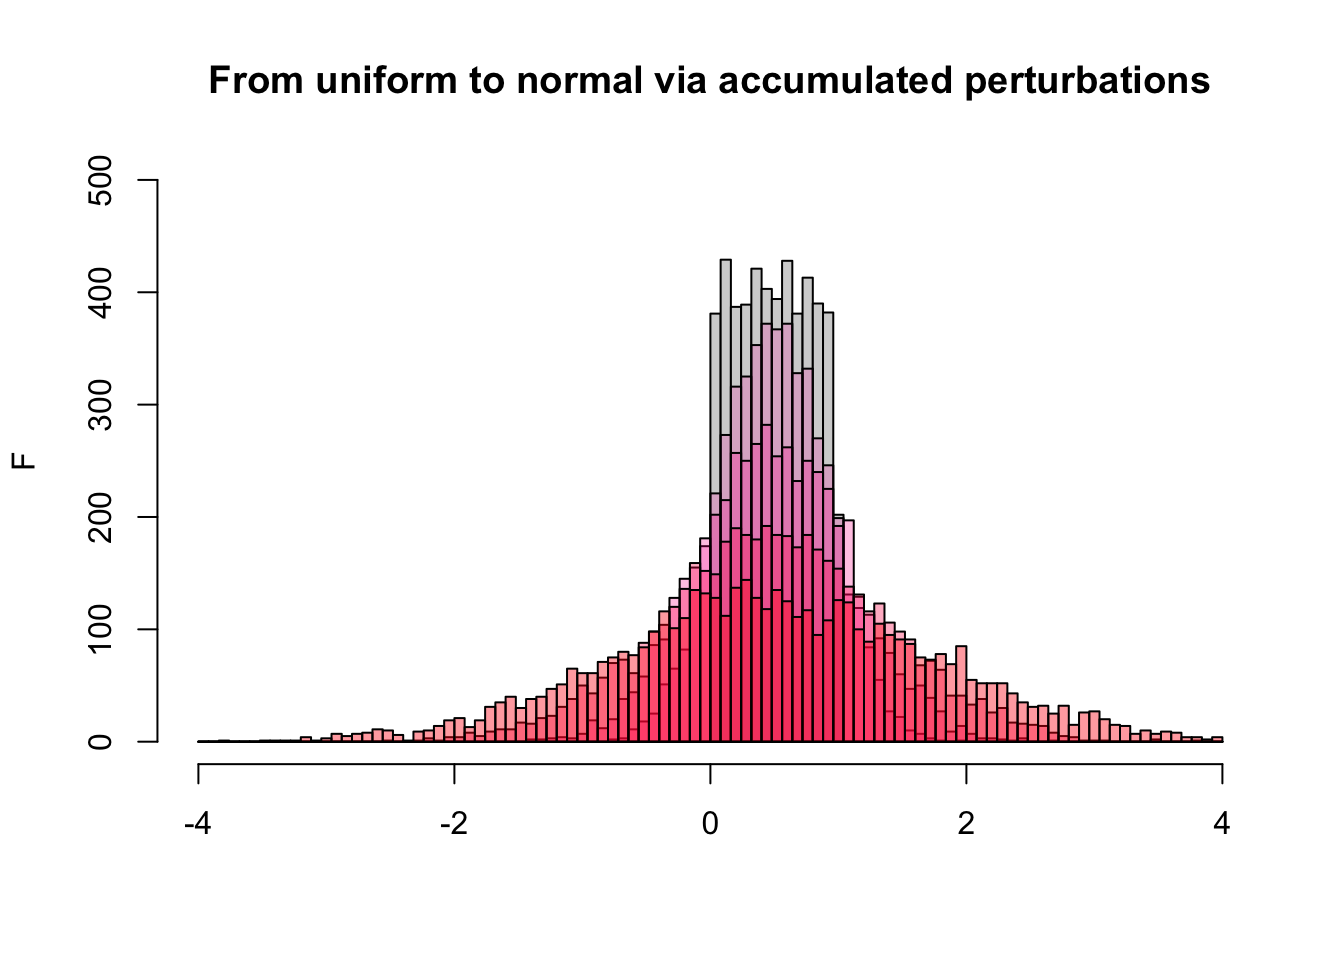
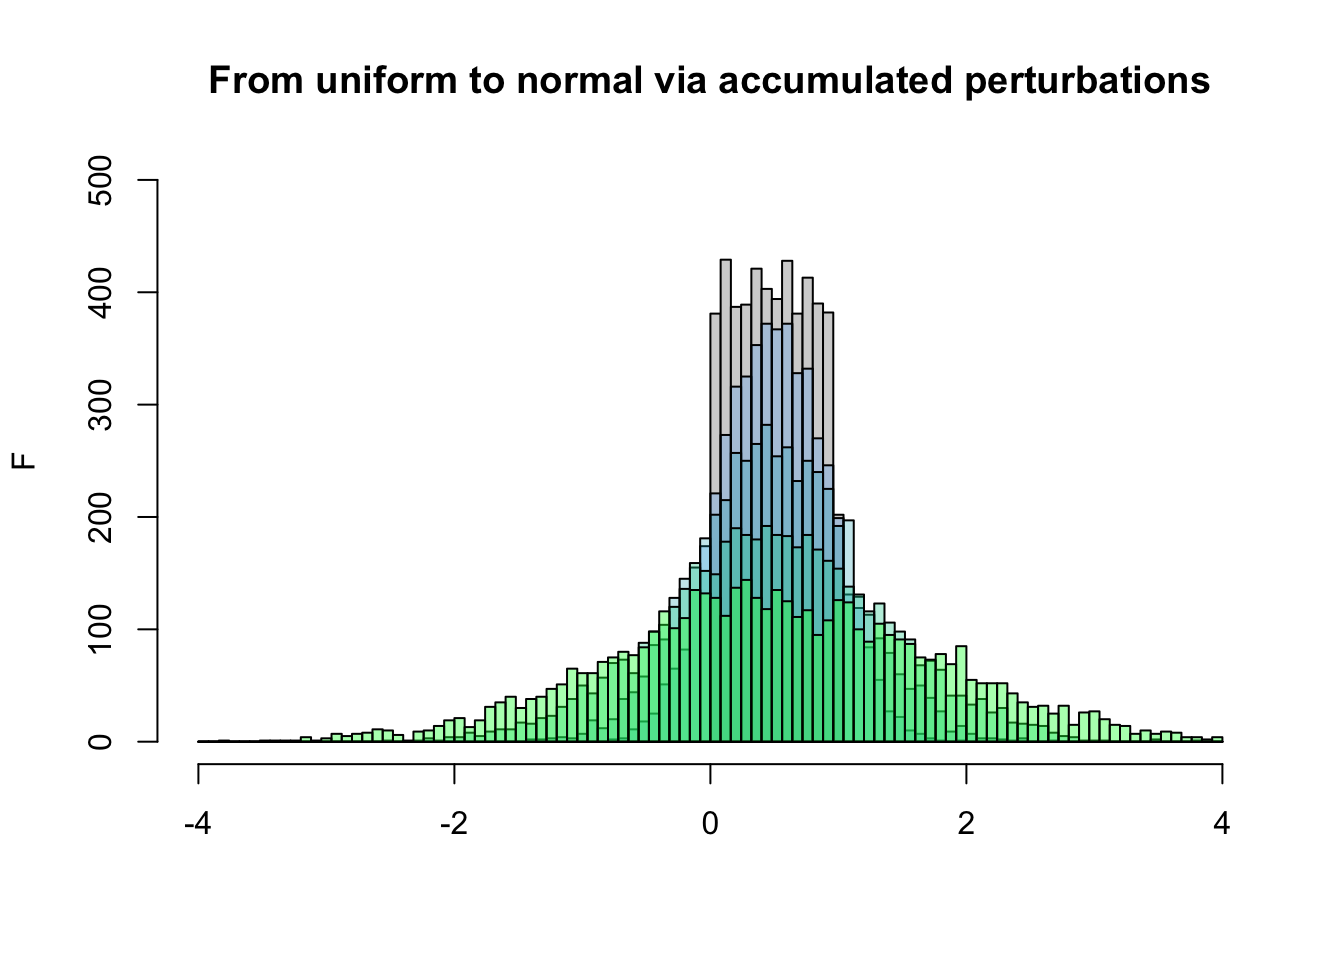
Colour updates

Changed region(s): [[0.25, 0.3438, 0.875, 0.7812]]

diff --git a/docs/CLTdemo.html b/docs/CLTdemo.html
@@ -6,7 +6,7 @@
 
 <meta name="viewport" content="width=device-width, initial-scale=1.0, user-scalable=yes">
 
-<meta name="author" content="Boris Steipe">
+<meta name="author" content="Boris Steipe (with Wenzel Wohlgemut)">
 <meta name="dcterms.date" content="2025-10-03">
 
 <title>CLT Demo</title>
@@ -140,7 +140,7 @@ window.Quarto = {
     <div>
     <div class="quarto-title-meta-heading">Author</div>
     <div class="quarto-title-meta-contents">
-             <p>Boris Steipe </p>
+             <p>Boris Steipe (with Wenzel Wohlgemut) </p>
           </div>
   </div>
     
@@ -160,7 +160,7 @@ window.Quarto = {
 
 
 <div class="version-info">
-<p>Version v 1.0, last updated October 3, 2025.</p>
+<p>Version Test, last updated October 3, 2025.</p>
 </div>
 <!-- 
 versions:
@@ -227,7 +227,7 @@ This means: If we take many independent observations from the same population, t
 <span id="cb1-19"><a href="#cb1-19" aria-hidden="true" tabindex="-1"></a><span class="co"># between -0.05 and 0.05 added to each number in x. These are vectorized</span></span>
 <span id="cb1-20"><a href="#cb1-20" aria-hidden="true" tabindex="-1"></a><span class="co"># operations in R - they are fast. Then we overlay the new histogram.</span></span>
 <span id="cb1-21"><a href="#cb1-21" aria-hidden="true" tabindex="-1"></a>x <span class="ot">&lt;-</span> x <span class="sc">+</span> <span class="fu">rowSums</span>(<span class="fu">matrix</span>(<span class="fu">runif</span>(n<span class="sc">*</span><span class="dv">100</span>, <span class="sc">-</span><span class="fl">0.05</span>, <span class="fl">0.05</span>), <span class="at">nrow=</span>n))</span>
-<span id="cb1-22"><a href="#cb1-22" aria-hidden="true" tabindex="-1"></a><span class="fu">hist</span>(x[x<span class="sc">&gt;</span>xi <span class="sc">&amp;</span> x<span class="sc">&lt;</span>xa], <span class="at">breaks =</span> brk, <span class="at">col =</span> <span class="st">"#FF00AA33"</span>, <span class="at">add=</span><span class="cn">TRUE</span>)</span>
+<span id="cb1-22"><a href="#cb1-22" aria-hidden="true" tabindex="-1"></a><span class="fu">hist</span>(x[x<span class="sc">&gt;</span>xi <span class="sc">&amp;</span> x<span class="sc">&lt;</span>xa], <span class="at">breaks =</span> brk, <span class="at">col =</span> <span class="st">"#0099FF33"</span>, <span class="at">add=</span><span class="cn">TRUE</span>)</span>
 <span id="cb1-23"><a href="#cb1-23" aria-hidden="true" tabindex="-1"></a></span>
 <span id="cb1-24"><a href="#cb1-24" aria-hidden="true" tabindex="-1"></a><span class="co"># Note: for display we clip the values to lie between the bounds we are</span></span>
 <span id="cb1-25"><a href="#cb1-25" aria-hidden="true" tabindex="-1"></a><span class="co">#       considering for our histogram: x[x&gt;xi &amp; x&lt;xa]. If we don't</span></span>
@@ -237,15 +237,15 @@ This means: If we take many independent observations from the same population, t
 <span id="cb1-29"><a href="#cb1-29" aria-hidden="true" tabindex="-1"></a></span>
 <span id="cb1-30"><a href="#cb1-30" aria-hidden="true" tabindex="-1"></a><span class="co"># We repeat this with 200 perturbations ...</span></span>
 <span id="cb1-31"><a href="#cb1-31" aria-hidden="true" tabindex="-1"></a>x <span class="ot">&lt;-</span> x <span class="sc">+</span> <span class="fu">rowSums</span>(<span class="fu">matrix</span>(<span class="fu">runif</span>(n<span class="sc">*</span><span class="dv">200</span>, <span class="sc">-</span><span class="fl">0.05</span>, <span class="fl">0.05</span>), <span class="at">nrow=</span>n))</span>
-<span id="cb1-32"><a href="#cb1-32" aria-hidden="true" tabindex="-1"></a><span class="fu">hist</span>(x[x<span class="sc">&gt;</span>xi <span class="sc">&amp;</span> x<span class="sc">&lt;</span>xa], <span class="at">breaks =</span> brk, <span class="at">col =</span> <span class="st">"#FF009944"</span>, <span class="at">add=</span><span class="cn">TRUE</span>)</span>
+<span id="cb1-32"><a href="#cb1-32" aria-hidden="true" tabindex="-1"></a><span class="fu">hist</span>(x[x<span class="sc">&gt;</span>xi <span class="sc">&amp;</span> x<span class="sc">&lt;</span>xa], <span class="at">breaks =</span> brk, <span class="at">col =</span> <span class="st">"#00AABB44"</span>, <span class="at">add=</span><span class="cn">TRUE</span>)</span>
 <span id="cb1-33"><a href="#cb1-33" aria-hidden="true" tabindex="-1"></a></span>
 <span id="cb1-34"><a href="#cb1-34" aria-hidden="true" tabindex="-1"></a><span class="co"># ... 500 ...</span></span>
 <span id="cb1-35"><a href="#cb1-35" aria-hidden="true" tabindex="-1"></a>x <span class="ot">&lt;-</span> x <span class="sc">+</span> <span class="fu">rowSums</span>(<span class="fu">matrix</span>(<span class="fu">runif</span>(n<span class="sc">*</span><span class="dv">500</span>, <span class="sc">-</span><span class="fl">0.05</span>, <span class="fl">0.05</span>), <span class="at">nrow=</span>n))</span>
-<span id="cb1-36"><a href="#cb1-36" aria-hidden="true" tabindex="-1"></a><span class="fu">hist</span>(x[x<span class="sc">&gt;</span>xi <span class="sc">&amp;</span> x<span class="sc">&lt;</span>xa], <span class="at">breaks =</span> brk, <span class="at">col =</span> <span class="st">"#FF005555"</span>, <span class="at">add=</span><span class="cn">TRUE</span>)</span>
+<span id="cb1-36"><a href="#cb1-36" aria-hidden="true" tabindex="-1"></a><span class="fu">hist</span>(x[x<span class="sc">&gt;</span>xi <span class="sc">&amp;</span> x<span class="sc">&lt;</span>xa], <span class="at">breaks =</span> brk, <span class="at">col =</span> <span class="st">"#00CC9955"</span>, <span class="at">add=</span><span class="cn">TRUE</span>)</span>
 <span id="cb1-37"><a href="#cb1-37" aria-hidden="true" tabindex="-1"></a></span>
 <span id="cb1-38"><a href="#cb1-38" aria-hidden="true" tabindex="-1"></a><span class="co"># ... and 1,000. That's our final histogram.</span></span>
 <span id="cb1-39"><a href="#cb1-39" aria-hidden="true" tabindex="-1"></a>x <span class="ot">&lt;-</span> x <span class="sc">+</span> <span class="fu">rowSums</span>(<span class="fu">matrix</span>(<span class="fu">runif</span>(n<span class="sc">*</span><span class="dv">1000</span>, <span class="sc">-</span><span class="fl">0.05</span>, <span class="fl">0.05</span>), <span class="at">nrow=</span>n))</span>
-<span id="cb1-40"><a href="#cb1-40" aria-hidden="true" tabindex="-1"></a><span class="fu">hist</span>(x[x<span class="sc">&gt;</span>xi <span class="sc">&amp;</span> x<span class="sc">&lt;</span>xa], <span class="at">breaks =</span> brk, <span class="at">col =</span> <span class="st">"#FF001166"</span>, <span class="at">add=</span><span class="cn">TRUE</span>)</span></code><button title="Copy to Clipboard" class="code-copy-button"><i class="bi"></i></button></pre></div>
+<span id="cb1-40"><a href="#cb1-40" aria-hidden="true" tabindex="-1"></a><span class="fu">hist</span>(x[x<span class="sc">&gt;</span>xi <span class="sc">&amp;</span> x<span class="sc">&lt;</span>xa], <span class="at">breaks =</span> brk, <span class="at">col =</span> <span class="st">"#00FF4466"</span>, <span class="at">add=</span><span class="cn">TRUE</span>)</span></code><button title="Copy to Clipboard" class="code-copy-button"><i class="bi"></i></button></pre></div>
 <div class="cell-output-display">
 <div>
 <figure class="figure">
@@ -262,7 +262,7 @@ This means: If we take many independent observations from the same population, t
 <div class="cell">
 <div class="sourceCode cell-code" id="cb2"><pre class="sourceCode r code-with-copy"><code class="sourceCode r"><span id="cb2-1"><a href="#cb2-1" aria-hidden="true" tabindex="-1"></a><span class="co"># assign the hist() output to myH, so we can get at the values with which</span></span>
 <span id="cb2-2"><a href="#cb2-2" aria-hidden="true" tabindex="-1"></a><span class="co"># the plot was constructed.</span></span>
-<span id="cb2-3"><a href="#cb2-3" aria-hidden="true" tabindex="-1"></a>myH <span class="ot">&lt;-</span> <span class="fu">hist</span>(x[x<span class="sc">&gt;</span>xi <span class="sc">&amp;</span> x<span class="sc">&lt;</span>xa], <span class="at">breaks =</span> brk, <span class="at">col =</span> <span class="st">"#FF001166"</span>,</span>
+<span id="cb2-3"><a href="#cb2-3" aria-hidden="true" tabindex="-1"></a>myH <span class="ot">&lt;-</span> <span class="fu">hist</span>(x[x<span class="sc">&gt;</span>xi <span class="sc">&amp;</span> x<span class="sc">&lt;</span>xa], <span class="at">breaks =</span> brk, <span class="at">col =</span> <span class="st">"#00FF7744"</span>,</span>
 <span id="cb2-4"><a href="#cb2-4" aria-hidden="true" tabindex="-1"></a>            <span class="at">freq =</span> <span class="cn">FALSE</span>,</span>
 <span id="cb2-5"><a href="#cb2-5" aria-hidden="true" tabindex="-1"></a>            <span class="at">main =</span> <span class="st">"Histogram of Perturbed Values"</span>,</span>
 <span id="cb2-6"><a href="#cb2-6" aria-hidden="true" tabindex="-1"></a>            <span class="at">xlab =</span> <span class="st">""</span>, <span class="at">ylab =</span> <span class="st">"F"</span>,</span>
@@ -271,9 +271,9 @@ This means: If we take many independent observations from the same population, t
 <span id="cb2-9"><a href="#cb2-9" aria-hidden="true" tabindex="-1"></a><span class="fu">points</span>(myH<span class="sc">$</span>mids,  <span class="co"># using the histogram-bin midpoints as the x-values of</span></span>
 <span id="cb2-10"><a href="#cb2-10" aria-hidden="true" tabindex="-1"></a>                  <span class="co"># our curve, and computing the y-values with dnorm()</span></span>
 <span id="cb2-11"><a href="#cb2-11" aria-hidden="true" tabindex="-1"></a>       <span class="fu">dnorm</span>(myH<span class="sc">$</span>mids, <span class="at">mean =</span> <span class="fu">mean</span>(x), <span class="at">sd =</span> <span class="fu">sd</span>(x)),</span>
-<span id="cb2-12"><a href="#cb2-12" aria-hidden="true" tabindex="-1"></a>       <span class="at">col =</span> <span class="st">"#AA0000"</span>,</span>
+<span id="cb2-12"><a href="#cb2-12" aria-hidden="true" tabindex="-1"></a>       <span class="at">col =</span> <span class="st">"#00DD44"</span>,</span>
 <span id="cb2-13"><a href="#cb2-13" aria-hidden="true" tabindex="-1"></a>       <span class="at">type =</span> <span class="st">"l"</span>,</span>
-<span id="cb2-14"><a href="#cb2-14" aria-hidden="true" tabindex="-1"></a>       <span class="at">lwd =</span> <span class="dv">2</span>)</span></code><button title="Copy to Clipboard" class="code-copy-button"><i class="bi"></i></button></pre></div>
+<span id="cb2-14"><a href="#cb2-14" aria-hidden="true" tabindex="-1"></a>       <span class="at">lwd =</span> <span class="dv">3</span>)</span></code><button title="Copy to Clipboard" class="code-copy-button"><i class="bi"></i></button></pre></div>
 <div class="cell-output-display">
 <div>
 <figure class="figure">
